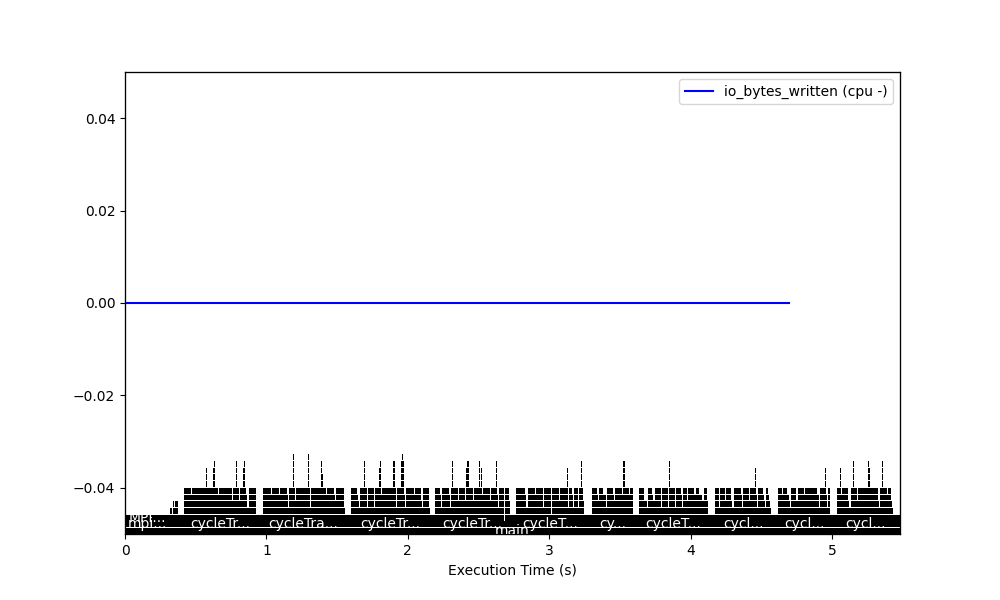
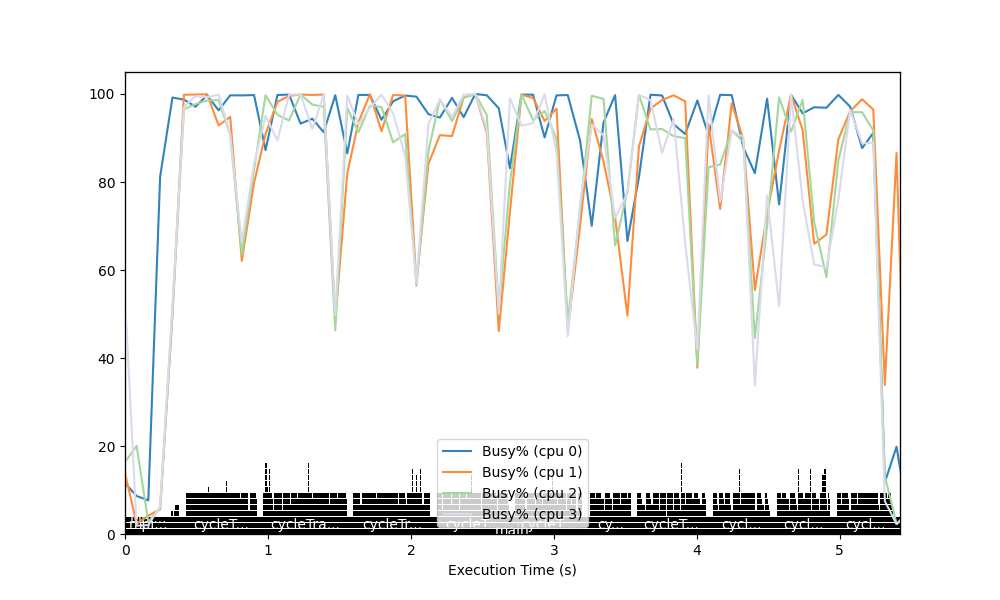
bugfix(turbostat): delay end of recording

diff --git a/main.py b/main.py
@@ -66,7 +66,7 @@ def plot_event_timeline(event_timeline, power_measurements, columns, cpus, title
     if not column in power_data.columns:
       raise Exception(f"Column {column} does not exist in the CSV.")
     for cpu in cpus:
-      if cpu.isnumeric():
+      if isinstance(cpu, (int)):
         stat_color = colormap(cpu / (max(cpus) + 1))
       else:
         stat_color = "blue"
@@ -159,10 +159,10 @@ def plot_event_timeline(event_timeline, power_measurements, columns, cpus, title
   plt.savefig("./stack-trace.png")
 
 
-timeline = generate_stack_timeline("./trace.json")
+timeline = generate_stack_timeline("./data/trace.json")
 
 # SOME USAGE:
 # pass in timeline, name of data file, the columns to plot, and then plot title.
 # plot_event_timeline(timeline, "main_test1731268056.txt",["POWER", "FREQ"], "CPUx Power and Frequency Against Trace Timeline")
-plot_event_timeline(timeline, "./stats.csv",
-                    ["Avg_MHz"], [1, 2, 3], "CPU Avg Freq. Against Trace Timeline")
+plot_event_timeline(timeline, "./data/stats.csv",
+                    ["Busy%"], [0, 1, 2, 3], "CPU Avg Freq. Against Trace Timeline")

diff --git a/turbostat.py b/turbostat.py
@@ -2,6 +2,7 @@ import subprocess
 import atexit
 import csv
 import time
+import psutil
 
 def run_turbostat(interval=0.5, output_csv="./data/stats.csv"):
   """
@@ -27,6 +28,7 @@ def run_turbostat(interval=0.5, output_csv="./data/stats.csv"):
     return
   headers = header_line.split()
   headers.insert(0, "TIME_STAMP")
+  headers.append("used_memory")
 
   with open(output_csv, "w") as csv_file:
     writer = csv.writer(csv_file)
@@ -36,14 +38,16 @@ def run_turbostat(interval=0.5, output_csv="./data/stats.csv"):
       line = line.strip()
       if not line or line.startswith("turbostat:"):
         continue
-      if line.split() == headers[1:]:
+      if line.split() == headers[1:-1]:
         timestamp = time.time_ns()
         continue
       cols = line.split()
+      mem = psutil.virtual_memory().percent
       cols.insert(0, timestamp / 1000)
+      cols.append(mem)
       writer.writerow(cols)
   process.wait()
 
 
 if __name__ == "__main__":
-  run_turbostat(interval=0.1)
+  run_turbostat(interval=0.08)
